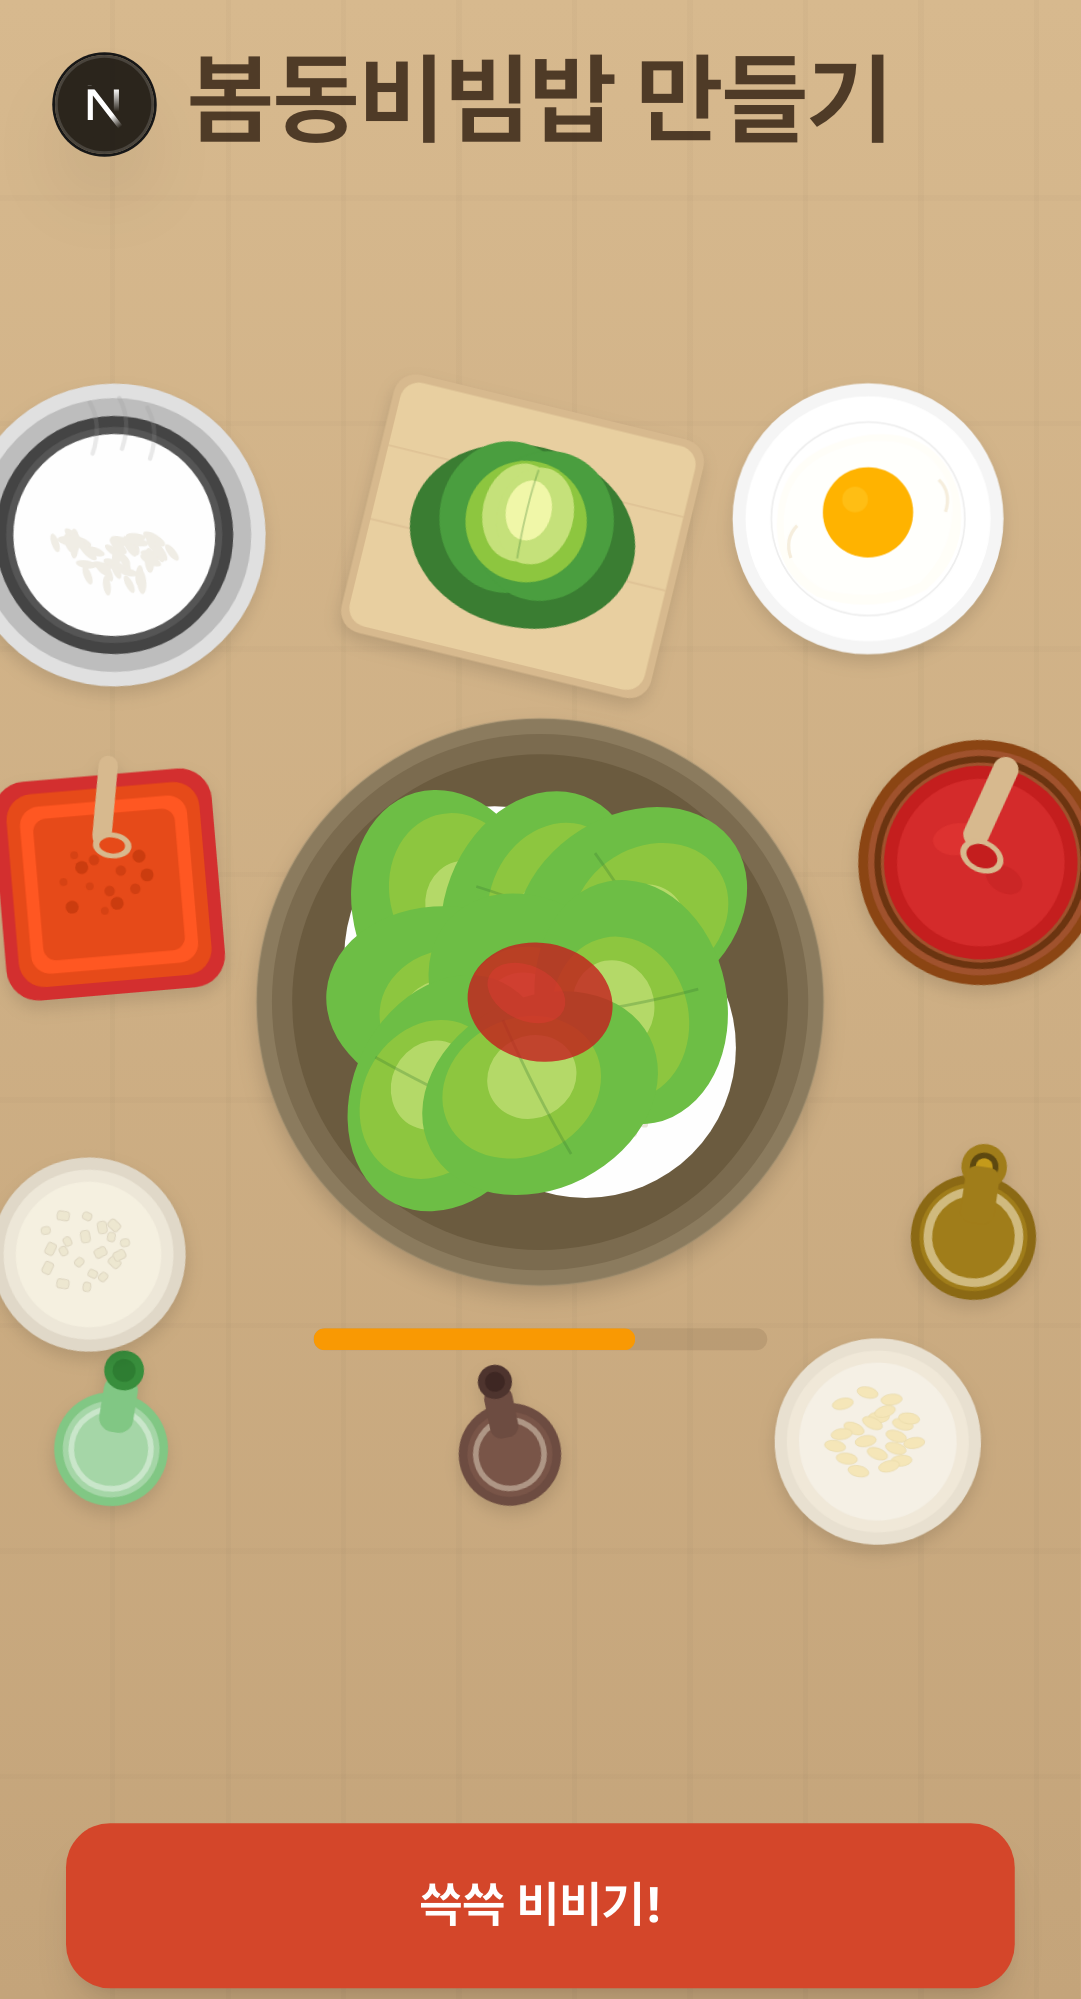
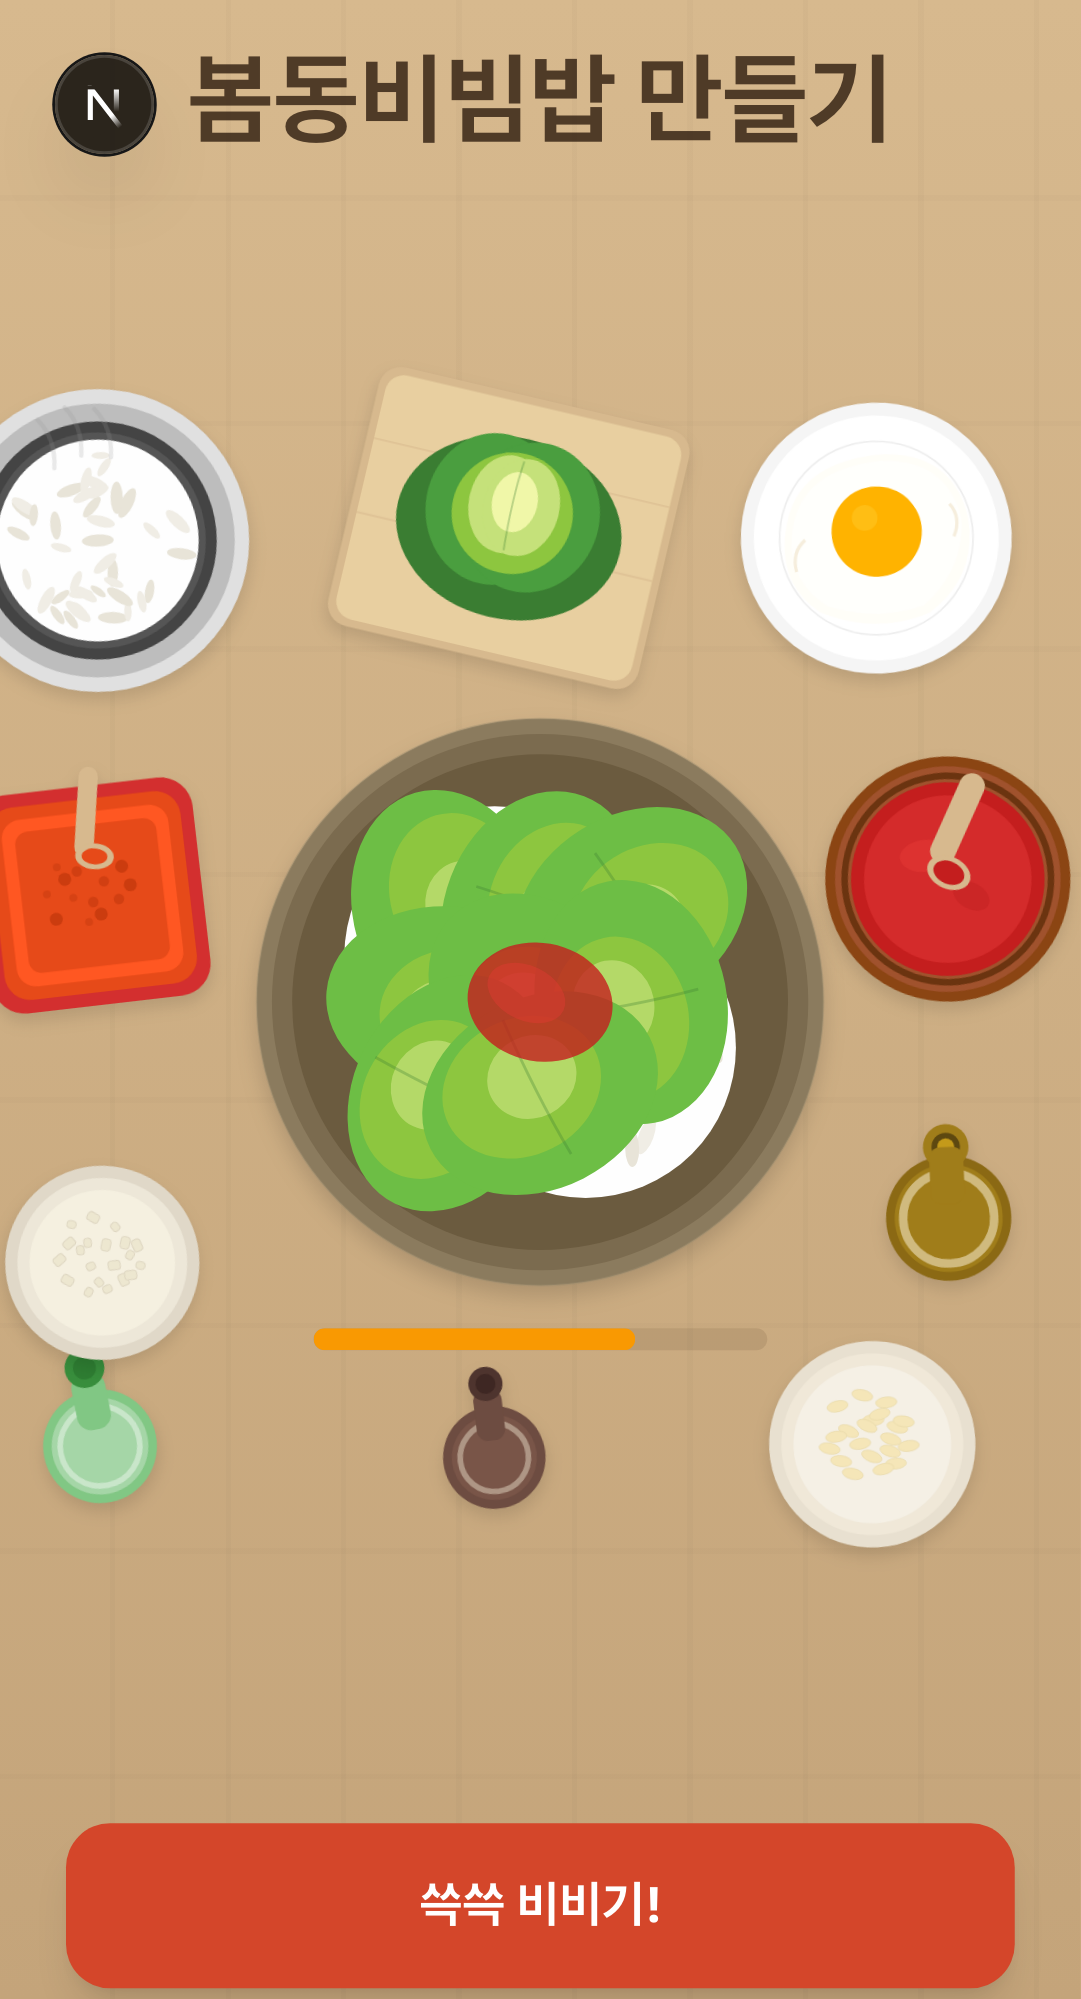
fix: rand 함수 편향 수정 (mean 0.25 → 0.5)
기존 해시 함수가 JS 정수 overflow로 0~0.5 범위만 생성하는
버그 수정. Math.imul 기반 해시로 교체하여 완전한 0~1 분포.

diff --git a/src/components/svg-ingredients.tsx b/src/components/svg-ingredients.tsx
@@ -5,7 +5,7 @@ import React from "react";
 // Precomputed rice grains: [cx, cy, rx, ry, rotation, isDark]
 const RICE_GRAINS: [number, number, number, number, number, boolean][] = (() => {
   // Simple integer-based hash for determinism across server/client
-  function h(s: number) { let v = (s * 2654435761) >>> 0; v = ((v ^ (v >> 16)) * 0x45d9f3b) >>> 0; v = ((v ^ (v >> 16)) * 0x45d9f3b) >>> 0; return ((v ^ (v >> 16)) >>> 0) / 4294967296; }
+  function h(s: number) { let a = s | 0; a = (a ^ 61) ^ (a >>> 16); a = a + (a << 3); a = a ^ (a >>> 4); a = Math.imul(a, 0x27d4eb2d); a = a ^ (a >>> 15); return (a >>> 0) / 4294967296; }
   const grains: [number, number, number, number, number, boolean][] = [];
   for (let i = 0; i < 40; i++) {
     const angle = h(i * 5) * Math.PI * 2;

diff --git a/src/components/drag-ghost.tsx b/src/components/drag-ghost.tsx
@@ -32,11 +32,13 @@ export function DragGhost({ ingredient, position, bowlPx = 300 }: DragGhostProps
 }
 
 function rand(seed: number): number {
-  let h = (seed * 2654435761) >>> 0;
-  h = ((h ^ (h >> 16)) * 0x45d9f3b) >>> 0;
-  h = ((h ^ (h >> 16)) * 0x45d9f3b) >>> 0;
-  h = (h ^ (h >> 16)) >>> 0;
-  return h / 4294967296;
+  let a = seed | 0;
+  a = (a ^ 61) ^ (a >>> 16);
+  a = a + (a << 3);
+  a = a ^ (a >>> 4);
+  a = Math.imul(a, 0x27d4eb2d);
+  a = a ^ (a >>> 15);
+  return (a >>> 0) / 4294967296;
 }
 
 /** Same visuals as IngredientDrop in bowl.tsx, centered at 120,120 (bowl center) */

diff --git a/src/components/bowl.tsx b/src/components/bowl.tsx
@@ -406,11 +406,13 @@ function MixedView({
 
 /** Deterministic hash-based random 0~1 (identical on server & client) */
 function rand(seed: number): number {
-  let h = (seed * 2654435761) >>> 0;
-  h = ((h ^ (h >> 16)) * 0x45d9f3b) >>> 0;
-  h = ((h ^ (h >> 16)) * 0x45d9f3b) >>> 0;
-  h = (h ^ (h >> 16)) >>> 0;
-  return h / 4294967296;
+  let a = seed | 0;
+  a = (a ^ 61) ^ (a >>> 16);
+  a = a + (a << 3);
+  a = a ^ (a >>> 4);
+  a = Math.imul(a, 0x27d4eb2d);
+  a = a ^ (a >>> 15);
+  return (a >>> 0) / 4294967296;
 }
 
 /** Random point inside the bowl circle (center 120, radius ~88)
